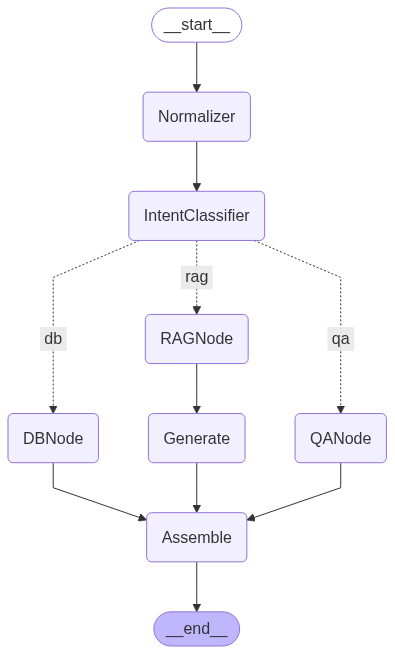
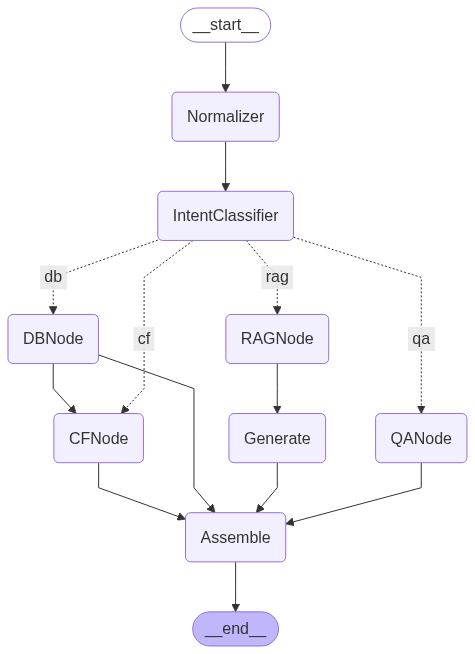
feat: add codeforces and database node

diff --git a/server/app/services/chat/nodes/cf.py b/server/app/services/chat/nodes/cf.py
@@ -1,0 +1,48 @@
+import requests
+from app.services.chat.utils.types import GraphState
+
+def cf_node(state: GraphState) -> GraphState:
+    # Get the handle from normalized query or from message content
+    query = state.get("normalized_query", "")
+    
+    # Basic validation: assume the handle is the entire query
+    handle = query.strip()
+
+    url = f"https://codeforces.com/api/user.info?handles={handle}"
+    print("CF Node Executed:", output)
+
+    try:
+        response = requests.get(url, timeout=5)
+        response.raise_for_status()
+        data = response.json()
+
+        if data["status"] != "OK":
+            raise Exception(data.get("comment", "Unknown error"))
+
+        user_info = data["result"][0]
+
+        return {
+            **state,
+            "final_response": (
+                f"Codeforces user: {user_info['handle']}\n"
+                f"Rating: {user_info.get('rating', 'Unrated')}\n"
+                f"Max Rating: {user_info.get('maxRating', 'N/A')}\n"
+                f"Rank: {user_info.get('rank', 'N/A')}\n"
+                f"Contribution: {user_info.get('contribution', 0)}"
+            ),
+            "trace": state.get("trace", []) + [{
+                "step": "cf_node",
+                "answer": user_info
+            }]
+        }
+
+    except Exception as e:
+        error_msg = f"Failed to fetch Codeforces user data: {str(e)}"
+        return {
+            **state,
+            "final_response": error_msg,
+            "trace": state.get("trace", []) + [{
+                "step": "cf_node",
+                "answer": {"error": str(e)}
+            }]
+        }

diff --git a/server/app/services/chat/nodes/db.py b/server/app/services/chat/nodes/db.py
@@ -1,12 +1,13 @@
 from langchain_community.utilities import SQLDatabase
 from langchain_community.agent_toolkits import SQLDatabaseToolkit
-from langchain.agents import create_sql_agent
+from langchain_community.agent_toolkits.sql.base import create_sql_agent
 from app.services.chat.model import model
 from app.services.chat.utils.types import GraphState
 from decouple import config
 
-mysql_uri = config('MYSQL_URI')
-db = SQLDatabase.from_uri(mysql_uri)
+db_uri = config("DB_URI_SYNC")
+print(db_uri)
+db = SQLDatabase.from_uri(db_uri)
 
 toolkit = SQLDatabaseToolkit(db=db, llm=model)
 
@@ -24,11 +25,13 @@ def db_node(state: GraphState) -> GraphState:
         output = result.get("output", "No result returned.")
     except Exception as e:
         output = f"An error occurred while querying the database: {str(e)}"
+        result = None
+
     print("DB Node Executed:", output)
 
     return {
         **state,
-        "retrieved_db": result if 'result' in locals() else None,
+        "retrieved_db": result,
         "db_answer": output,
         "final_response": output,
         "trace": state.get("trace", []) + [{"step": "db_node", "answer": output}]

diff --git a/server/app/services/chat/graph.py b/server/app/services/chat/graph.py
@@ -7,6 +7,7 @@ from app.services.chat.nodes.retrieve import retrieval_node
 from app.services.chat.nodes.generate import generator_node
 from app.services.chat.nodes.assemble import assemble_node
 from app.services.chat.nodes.db import db_node
+from app.services.chat.nodes.cf import cf_node
 
 def build_graph():
     builder = StateGraph(GraphState)
@@ -16,6 +17,7 @@ def build_graph():
     builder.add_node("QANode", qa_node)
     builder.add_node("RAGNode", retrieval_node)
     builder.add_node("DBNode", db_node)
+    builder.add_node("CFNode", cf_node)
     builder.add_node("Generate", generator_node)
     builder.add_node("Assemble", assemble_node)
 
@@ -27,13 +29,17 @@ def build_graph():
         {
             "qa": "QANode",
             "rag": "RAGNode",
-            "db": "DBNode"
+            "db": "DBNode",
+            "cf": "CFNode",
         }
     )
     builder.add_edge("RAGNode", "Generate")
     
     builder.add_edge("QANode", "Assemble")
     builder.add_edge("DBNode", "Assemble")
+    builder.add_edge("CFNode", "Assemble")
+    builder.add_edge("DBNode", "CFNode")
+    builder.add_edge("CFNode", "Assemble")
     builder.add_edge("Generate", "Assemble")
     builder.add_edge("Assemble", END)
     